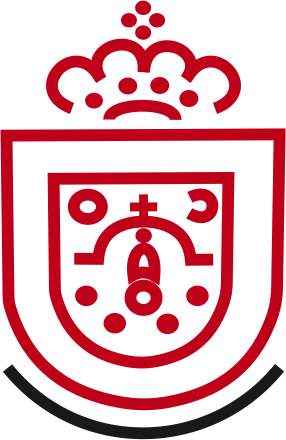
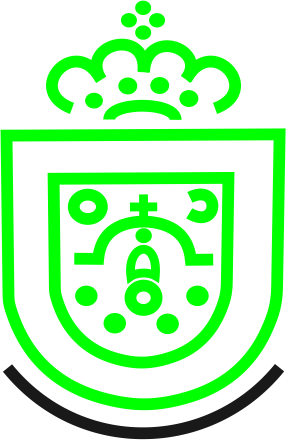
Agregacion de imagenes estaticas

Changed region(s): [[0.0, 0.0, 1.0, 0.9455], [0.1399, 0.3841, 0.8392, 0.8568], [0.6434, 0.65, 0.7273, 0.7091]]

diff --git a/static/css/style.css b/static/css/style.css
@@ -27,6 +27,10 @@
   background-size: auto 100%;
 }
 
+.img-back-vendor{
+  opacity: 0.5;
+}
+
 img.logo{
   position: right;
   max-width: 50%;
@@ -34,6 +38,18 @@ img.logo{
 }
 .navbar-letras {
   color: #000000;
+}
+
+.letras-negras{
+  color: #000000;
+}
+
+.letras-blancas{
+  color: #ffffff;
+}
+
+.padding-index{
+  padding-top: 50px;
 }
 
 .imagen-zac{
@@ -46,7 +62,7 @@ img.logo{
   }
 }
 .boton-buscar button{
-  background-color: #a72727;
+  background-color: #00A859;
   color: #fff;
   width: 40px;
   height: 40px;
@@ -59,8 +75,8 @@ img.logo{
 
 .boton-ingresar{
   color: white; 
-  background-color: #a72727;
-  border-color: #a72727;
+  background-color: #00A859;
+  border: none;
 }
 .imagen-zac{
   height: 100vh;
@@ -72,18 +88,18 @@ img.logo{
 }
 .dropdown-menu>a:hover {
   color: white;
-  background-color: #a72727;
+  background-color: #00A859;
 }
 
 .hoverMenu :hover{
-  background-color: #a72727;
+  background-color: #00A859;
   color: white;
 }
 .hover:hover{
   color:white
 }
 .crear-cuenta{
-  color: #a72727;
+  color: #00A859;
 }
 .crear-cuenta:hover{
   color: black;
@@ -111,7 +127,7 @@ body {
   font-family: "Rubik", sans-serif;
   font-weight: normal;
   font-style: normal;
-  color: rgba(0, 0, 0, 0.64);
+  color: rgba(0, 0, 0, 0.0);
   -webkit-font-smoothing: antialiased;
   -moz-osx-font-smoothing: grayscale;
 }
@@ -652,7 +668,7 @@ p {
 
 /*========== Primary Color =========*/
 .primary-color {
-  color: #a72727;
+  color: #00A859;
 }
 
 .primary-variant {
@@ -664,7 +680,7 @@ p {
 }
 
 .bg-primary-color {
-  background-color: #a72727;
+  background-color: #00A859;
 }
 
 .bg-primary-variant {
@@ -1266,7 +1282,7 @@ p {
 /*===== Primary Button Style =====*/
 .primary-icon,
 .primary-btn {
-  background-color: #a72727;
+  background-color: #00A859;
   color: #fff;
 }
 
@@ -1308,7 +1324,7 @@ p {
 /*===== Secondary 1 Button Style =====*/
 .secondary-1-icon,
 .secondary-1-btn {
-  background-color: #a72727;
+  background-color: #00A859;
   color: #fff;
 }
 
@@ -1699,7 +1715,7 @@ p {
 }
 
 .icon-text.text-style-1 {
-  background-color: #a72727;
+  background-color: #00A859;
   color: #fff;
 }
 
@@ -1794,7 +1810,7 @@ p {
 }
 
 .product-quantity.quantity-1 {
-  background-color: #a72727;
+  background-color: #00A859;
 }
 
 .product-quantity.quantity-1 button {
@@ -3499,7 +3515,7 @@ p {
   border: 1px solid transparent;
   height: 40px;
   line-height: 40px;
-  background-color: #a72727;
+  background-color: #00A859;
   padding-left: 40px;
   float: none;
 }
@@ -4121,7 +4137,7 @@ p {
 }
 
 .search-style-5 .search-btn button {
-  background-color: #a72727;
+  background-color: #00A859;
   color: #fff;
   width: 40px;
   height: 40px;
@@ -4133,7 +4149,7 @@ p {
 }
 
 .search-style-5 .search-btn button:hover {
-  background-color: #a72727;
+  background-color: #00A859;
   color: black;
   width: 40px;
   height: 40px;
@@ -4415,7 +4431,7 @@ p {
 }
 
 .breadcrumbs-style.breadcrumbs-style-1 .breadcrumb-left .breadcrumb .breadcrumb-item a:hover {
-  color: #a72727;
+  color: #00A859;
 }
 
 .breadcrumbs-style.breadcrumbs-style-1 .breadcrumb-right .nice-select::after {
@@ -4577,11 +4593,11 @@ p {
 }
 
 .navbar-style-7 .navbar-container .navbar-close a:hover {
-  color: #a72727;
+  color: #00A859;
 }
 
 .navbar-style-7 .navbar-container .navbar-top-wrapper {
-  background-color: #a72727;
+  background-color: #00A859;
 }
 
 @media only screen and (min-width: 768px) and (max-width: 991px) {
@@ -4936,7 +4952,7 @@ p {
 }
 
 .navbar-style-7 .navbar-container .main-navbar .navbar-menu .main-menu li:hover > a {
-  background-color: #a72727;
+  background-color: #00A859;
   color: #fff;
   -webkit-box-shadow: 2px 2px 8px rgba(0, 0, 0, 0.32);
   box-shadow: 2px 2px 8px rgba(0, 0, 0, 0.32);
@@ -5482,7 +5498,7 @@ p {
 }
 
 .navbar-dark-7 .navbar-container .navbar-close a:hover {
-  color: #a72727;
+  color: #00A859;
 }
 
 .navbar-dark-7 .navbar-container .navbar-top-wrapper {
@@ -5506,7 +5522,7 @@ p {
 }
 
 .navbar-dark-7 .navbar-container .navbar-top .navbar-top-left .navbar-top-link li a:hover {
-  color: #a72727;
+  color: #00A859;
 }
 
 .navbar-dark-7 .navbar-container .navbar-top .navbar-top-right .navbar-top-link li .nice-select::after {
@@ -6699,7 +6715,7 @@ p {
 }
 
 .header-style-1 .header-big .header-items-active .slick-dots li.slick-active button {
-  background-color: #a72727;
+  background-color: #00A859;
   -webkit-transform: scale(2);
   transform: scale(2);
 }
@@ -7537,7 +7553,7 @@ p {
 }
 
 .footer-style-3 .footer-copyright {
-  padding-top: 52px;
+  padding-top: 15px;
 }
 
 .footer-style-3 .footer-copyright p {
@@ -7621,7 +7637,7 @@ p {
   width: 50px;
   height: 50px;
   border-radius: 50%;
-  background: #a72727;
+  background: #00A859;
   color: #fff;
   margin-bottom: 25px;
   display: -webkit-box;
@@ -8230,7 +8246,7 @@ body {
 
 /* bacground */
 .chiller-theme .sidebar-wrapper {
-    background: #a72727;
+    background: #00A859;
 }
 
 .chiller-theme .sidebar-wrapper .sidebar-header,
